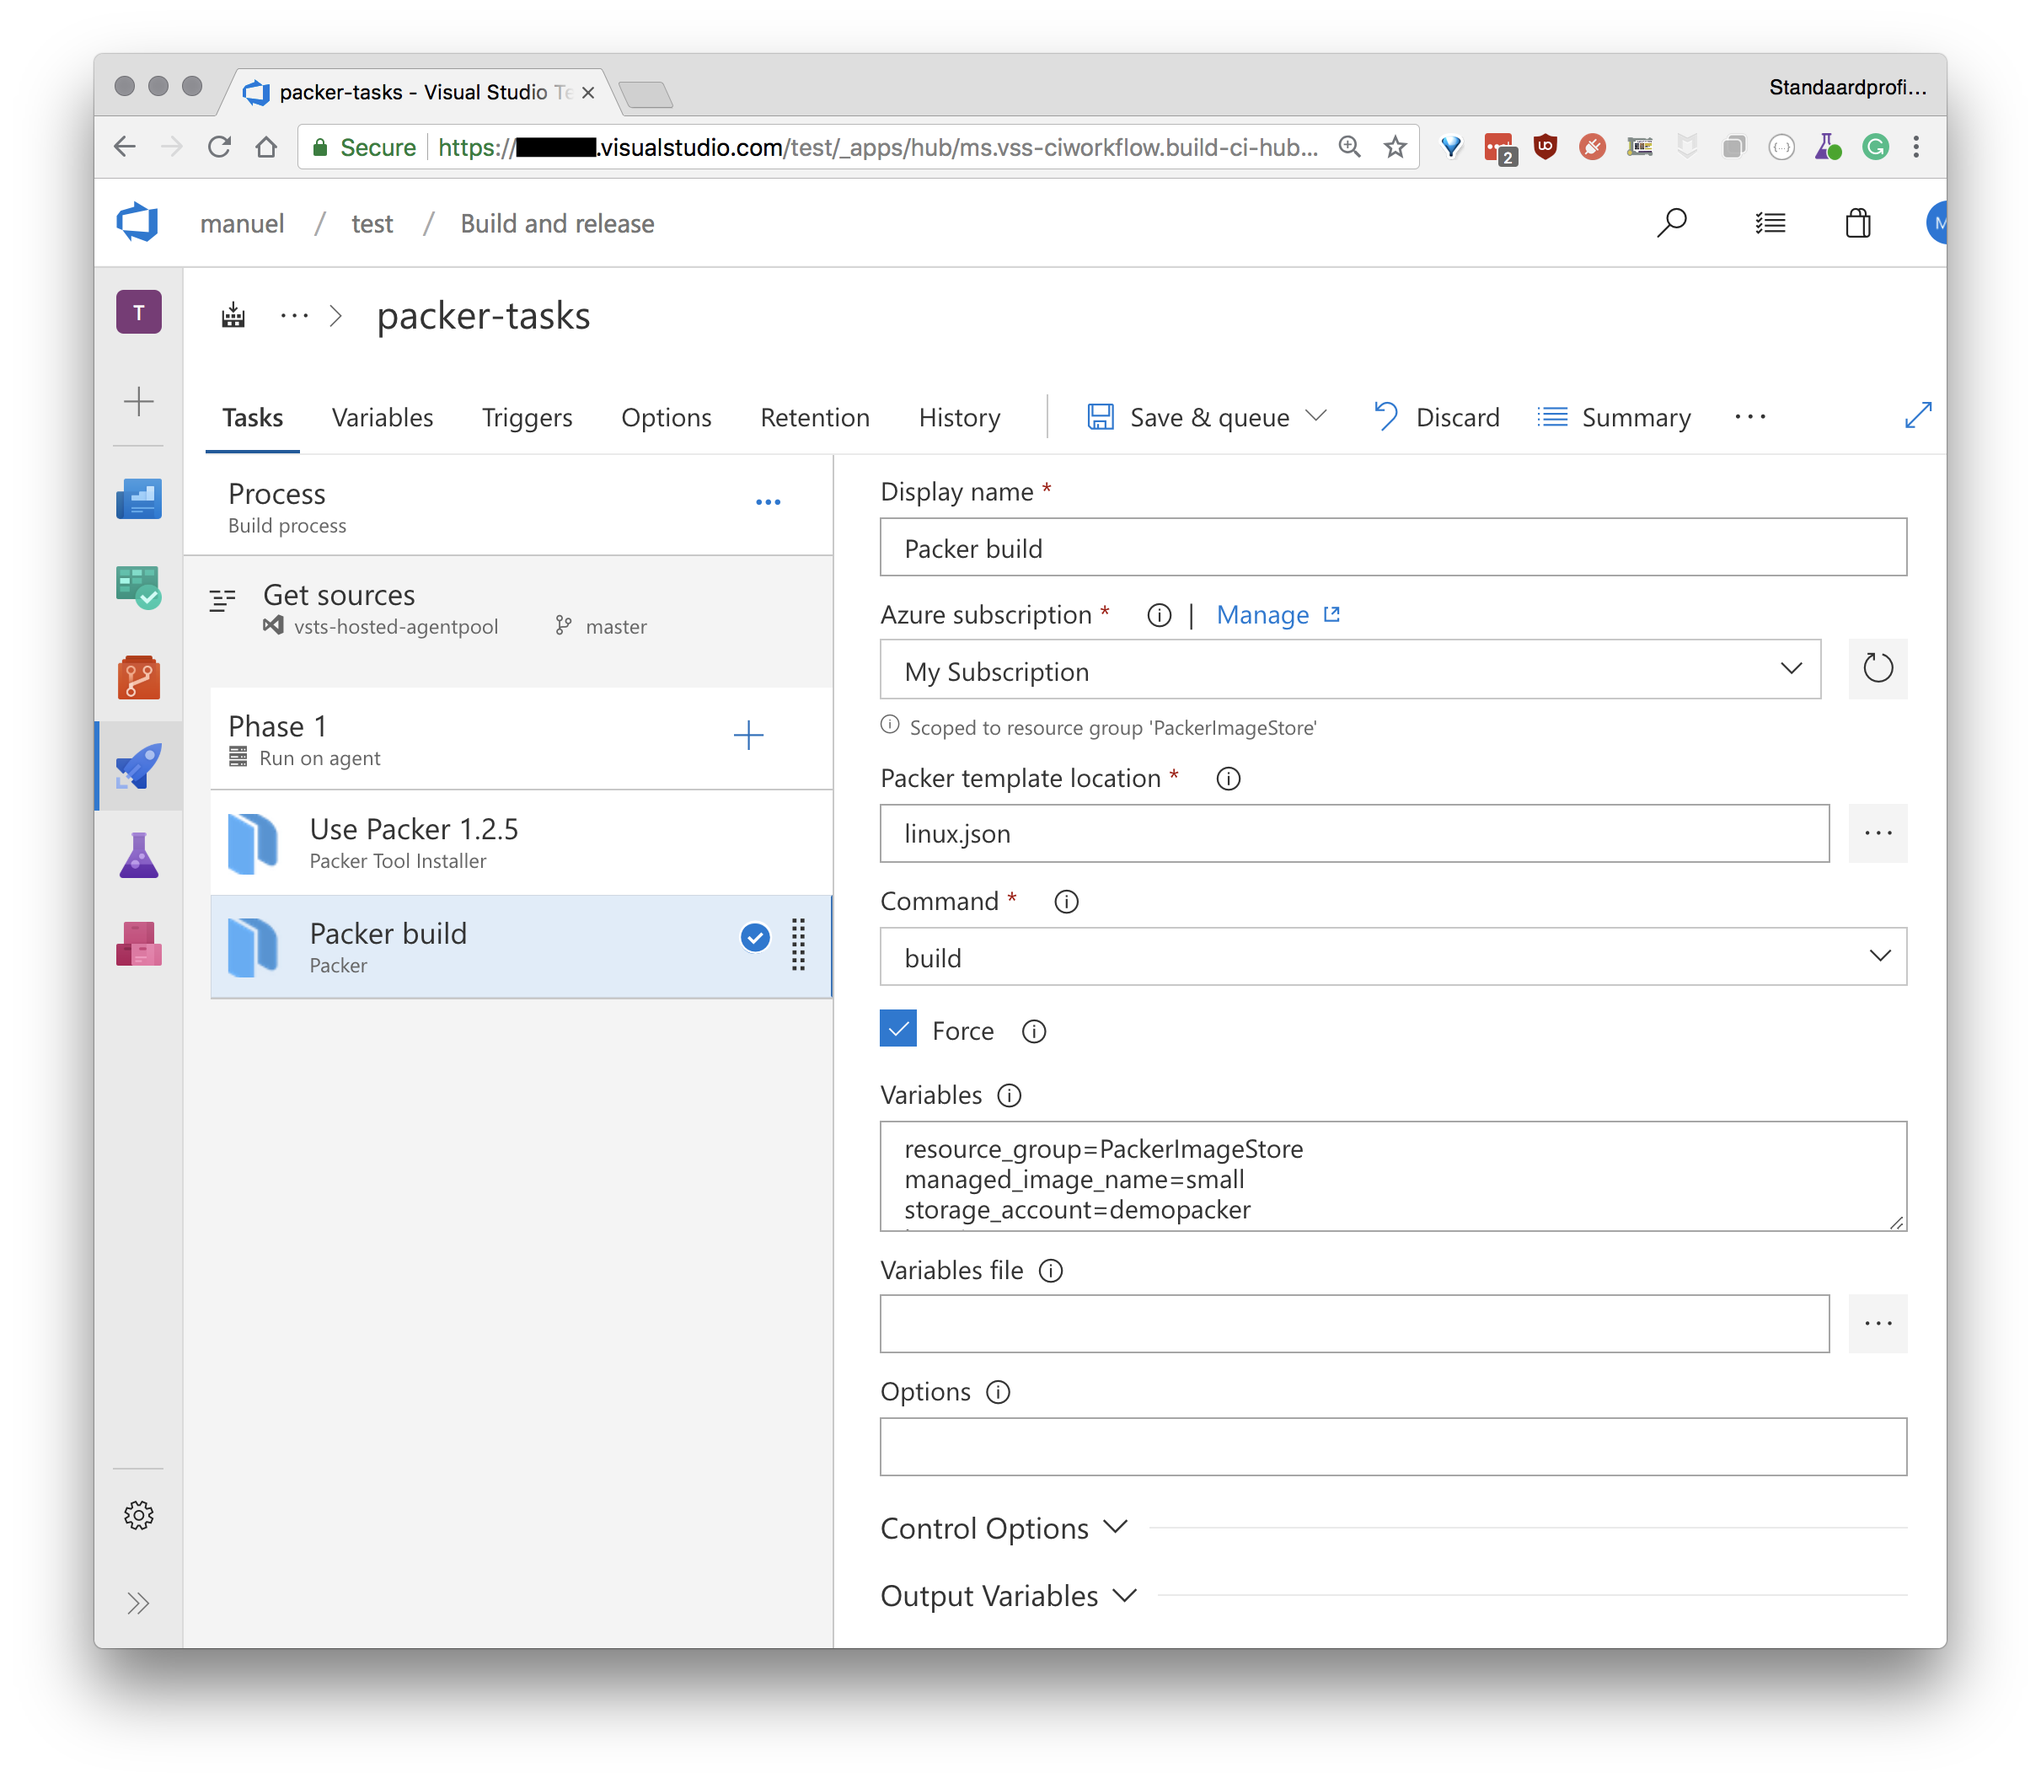
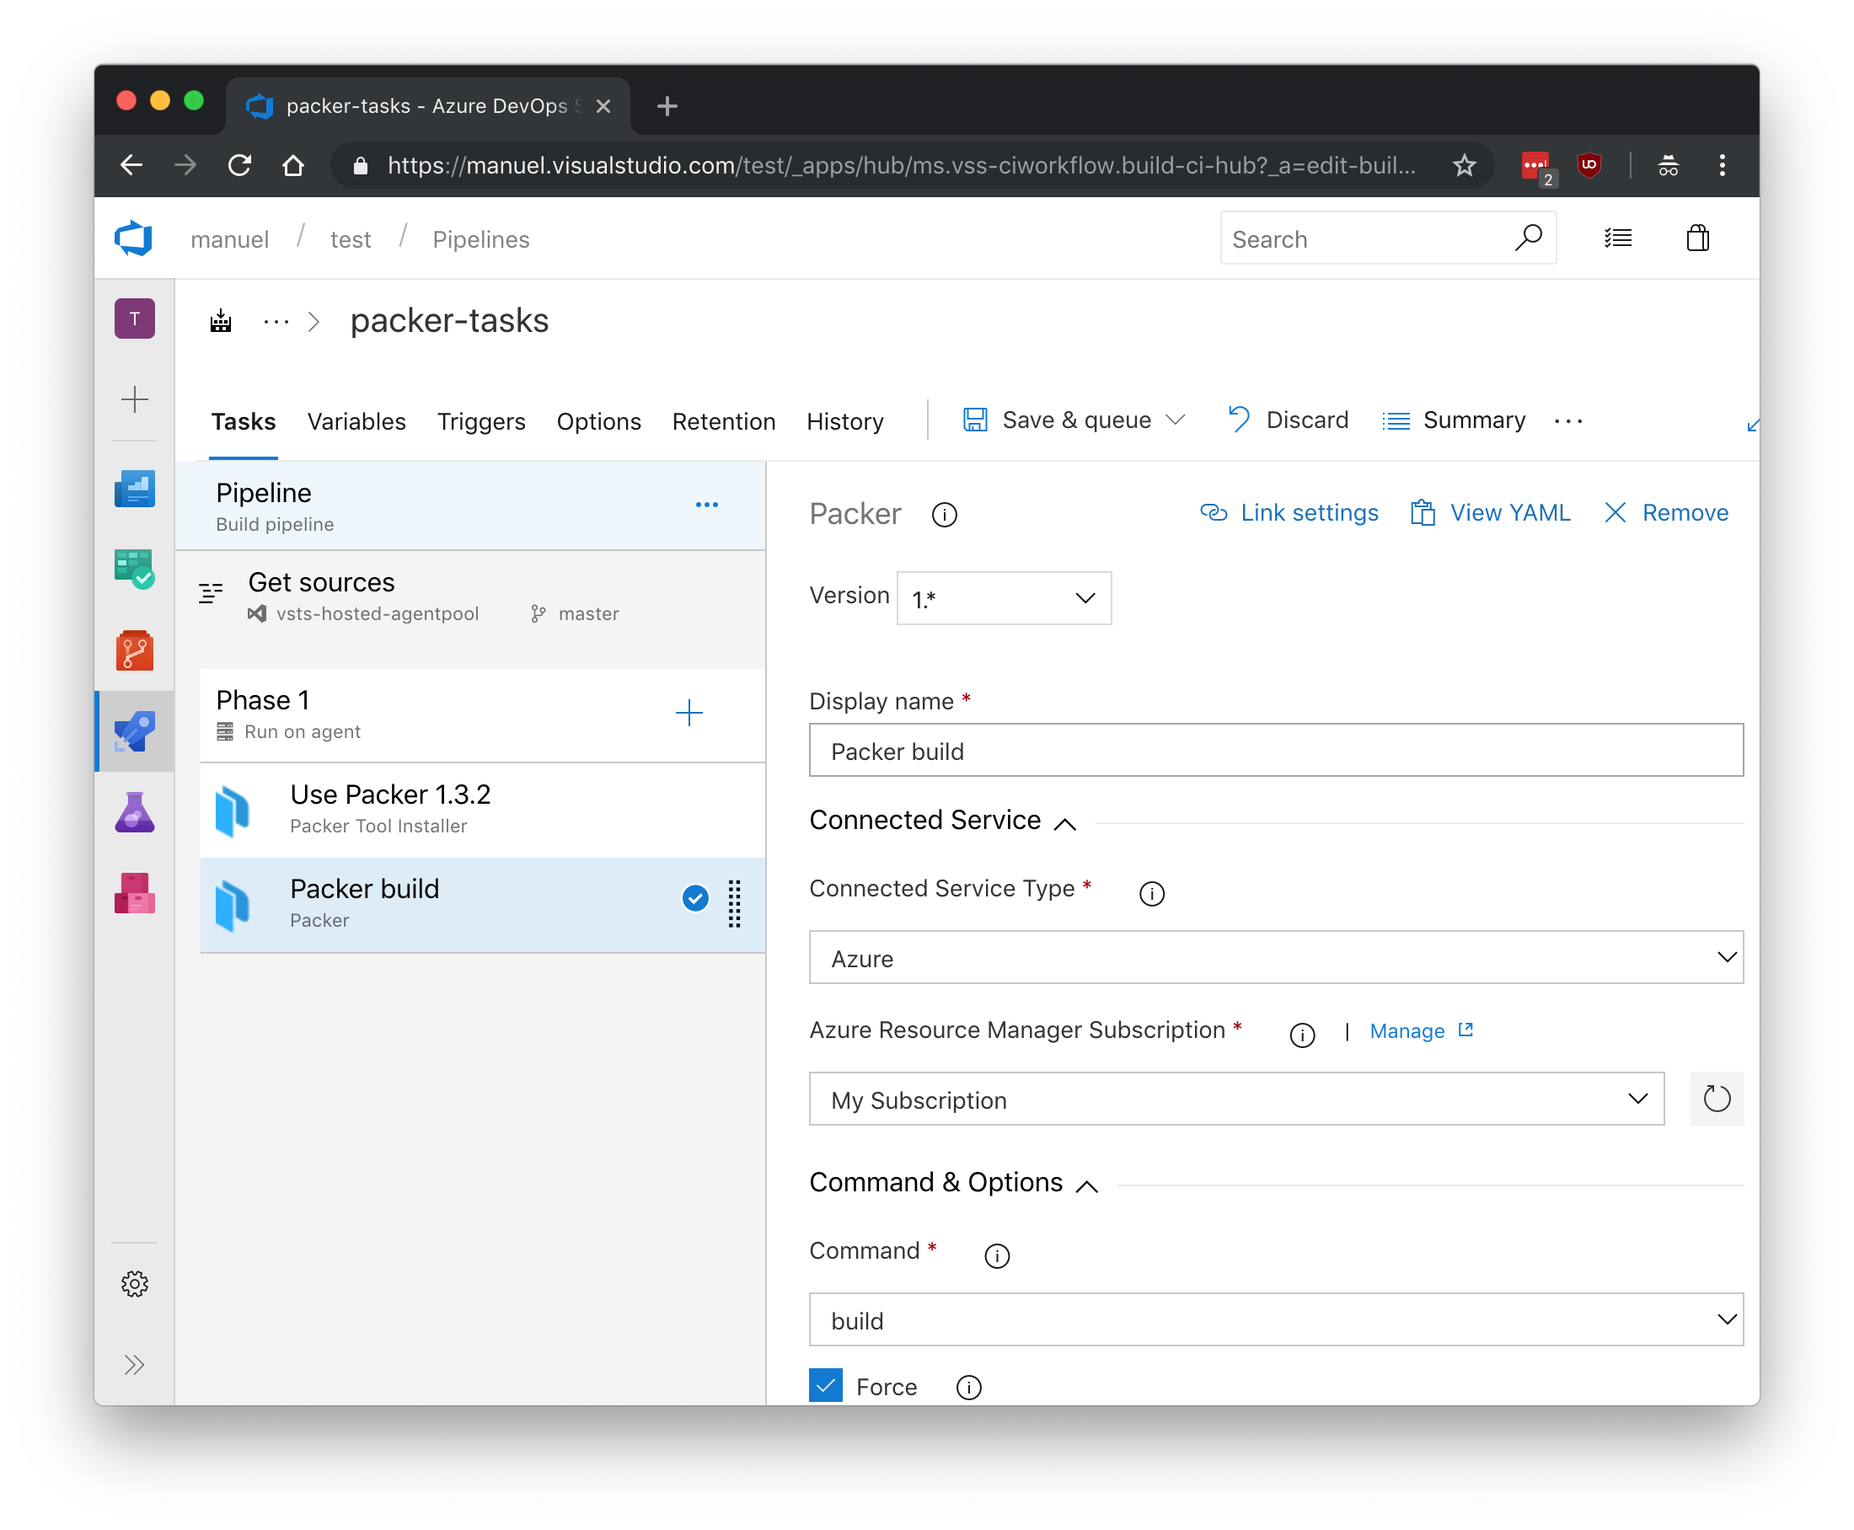
updated readme & screenshot for new release

diff --git a/README.md b/README.md
@@ -5,6 +5,11 @@ Install and execute [packer](https://packer.io) as part of your build & release 
 
 ## Release Notes
 
+> **03-12-2018**
+> * Packer@V1 out of preview
+> * Disable color for `packer build` by default with `-color=false` switch
+> * Default version for packer tool updated: `1.3.2`
+> 
 > **23-10-2018**
 > * Support for AWS in V1-peview.
 > * Default version for packer tool updated: `1.3.1`
